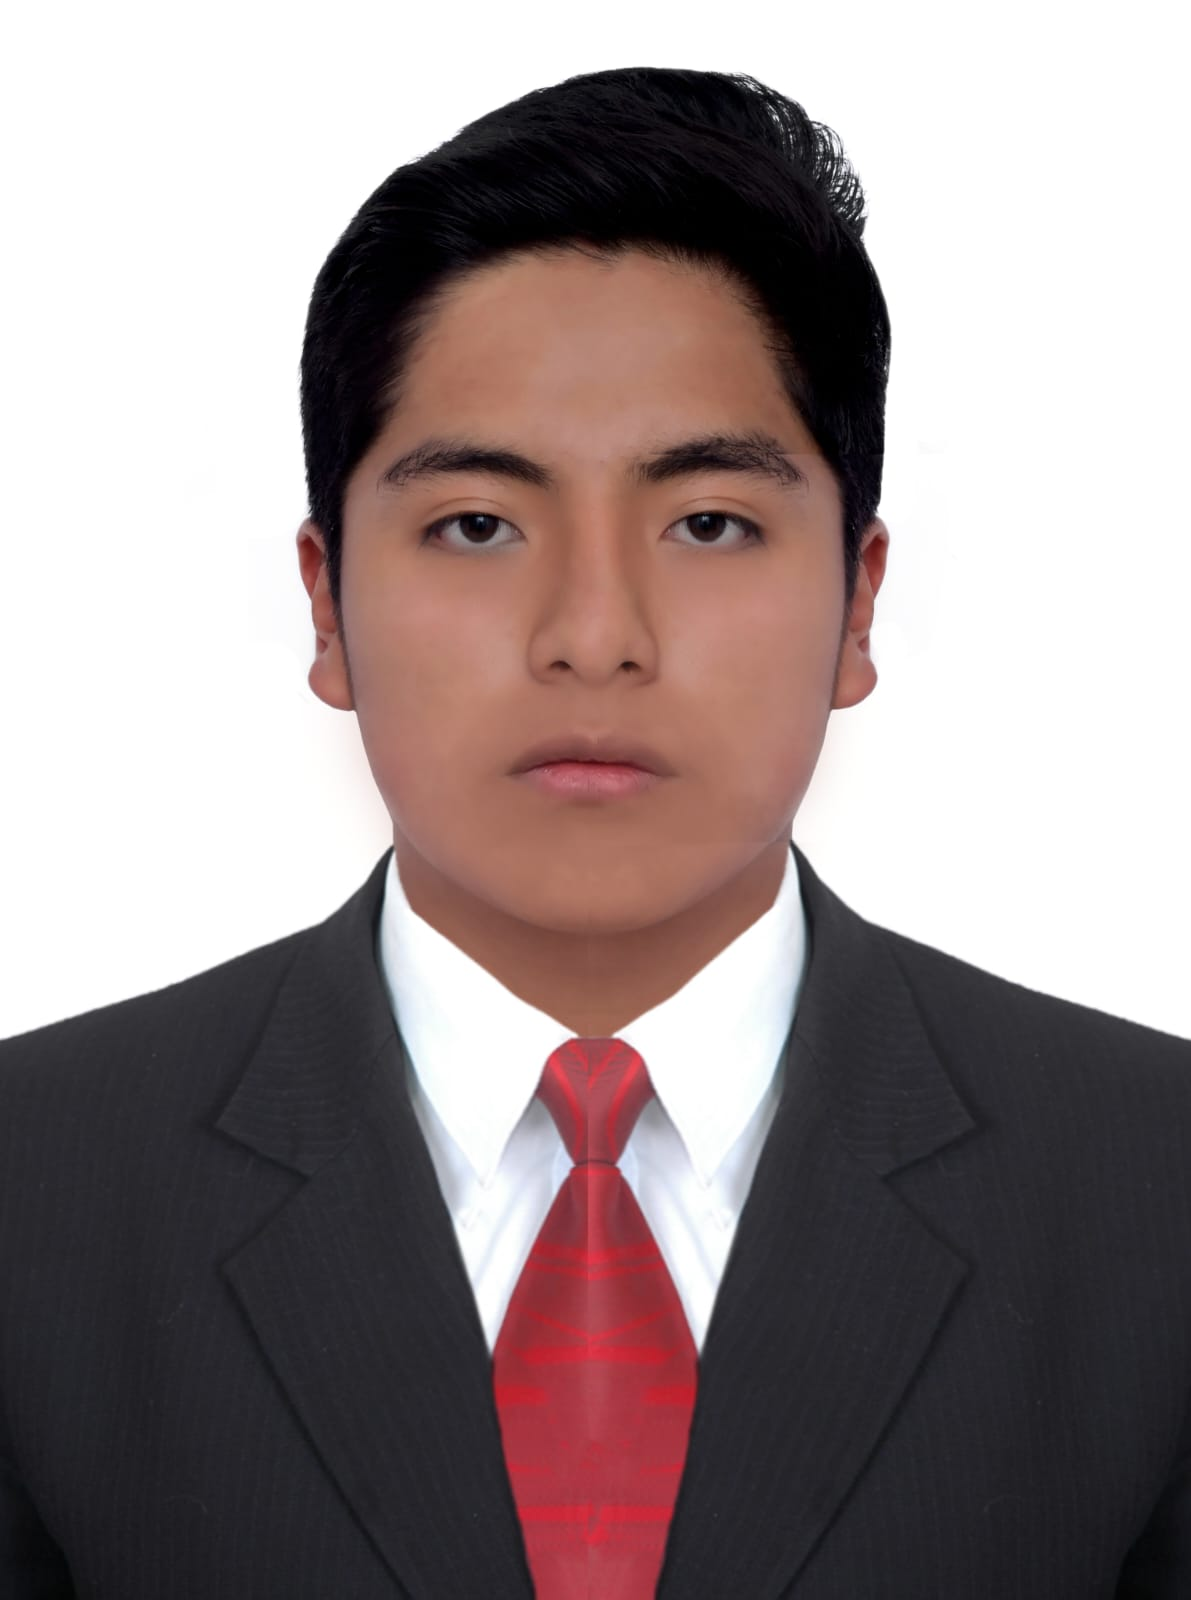
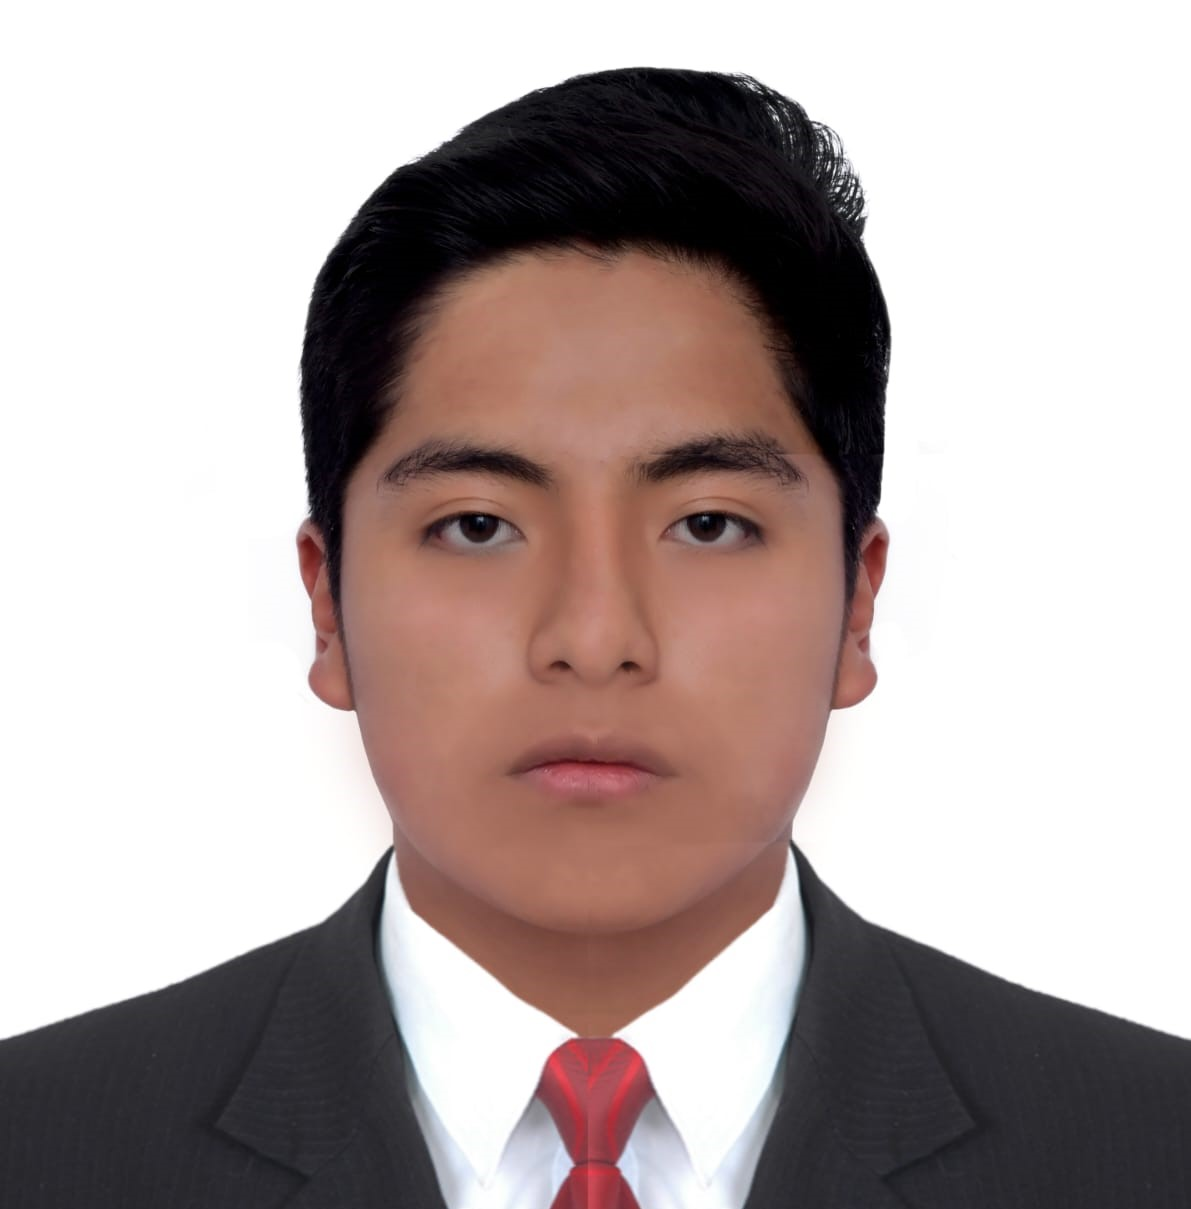
ya tenemos buena cabecera

diff --git a/mi pagina.html b/mi pagina.html
@@ -4,19 +4,26 @@
     <meta name="viewport" content="width=device-width, initial-scale=1.0">
     <title>Curriculum de Franklin</title>
     <style>
+        .cabeza {
+            background-color: cornflowerblue;
+            font-family:'Franklin Gothic Medium';
+        }
         .centrado{
             text-align: center;
             color:blue;
         }
         body{
-            background-color:aquamarine;
+            background-color:white;
         }
     </style>
 </head>
 <body>
+<div class="cabeza">   
+    <h1 class="centrado">MI CURRICULUM</h1>
+    <img src="IPR_5005.jpg" alt="Descripción de la imagen" style="border-radius: 50%; overflow: hidden; width: 200px; height: 200px"> <font size="50"> FRANKLIN ALFRED CHURA YUPA </font>
 
-<img src="WIN_20250529_10_17_11_Pro" alt="Descripción de la imagen" style="width: 200px; height: 200px; border-radius: 50%;">
-<h1 class="centrado">MI CURRICULUM</h1>
+</div>
+
 <h3>Datos personales</h3>
 <P><b>Nombre:</b> Franklin Alfred</P>
 <P><b>Apellidos:</b>Chura Yupa</P>
@@ -39,7 +46,7 @@
 
 
 <h3>Yo</h3>
-<img src="WIN_20250529_10_17_11_Pro">
+<img src="WIN_20250529_10_17_11_Pro.jpg">
 
 
 <h3>Acerca de mi</h3>
